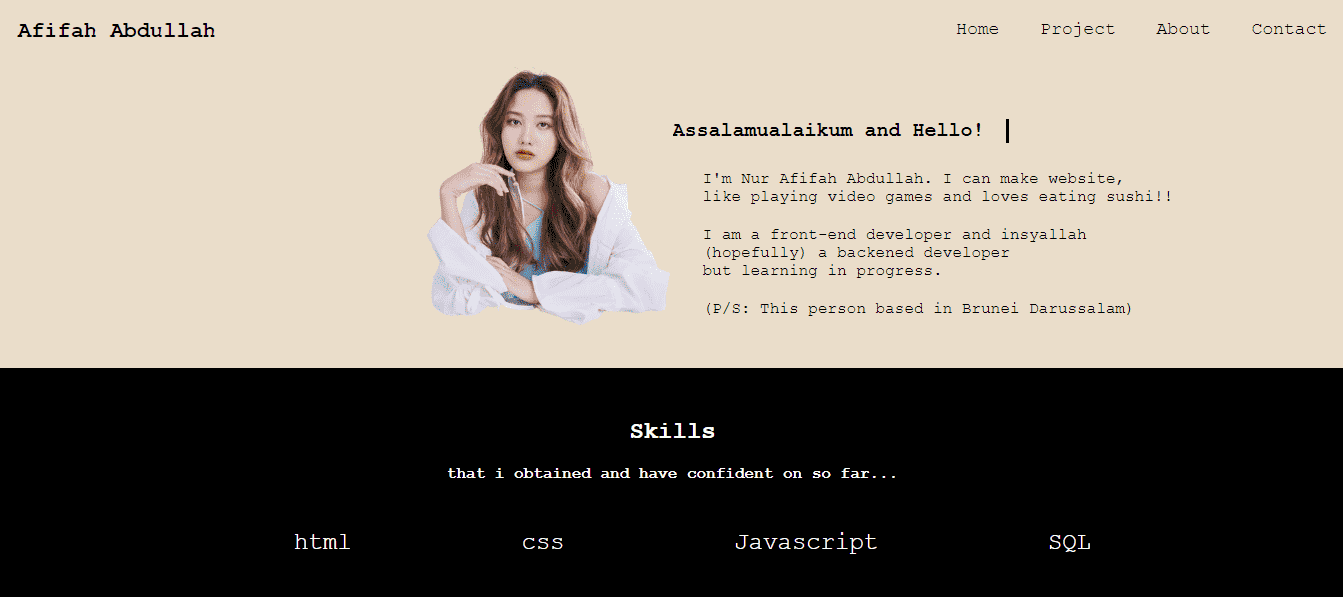
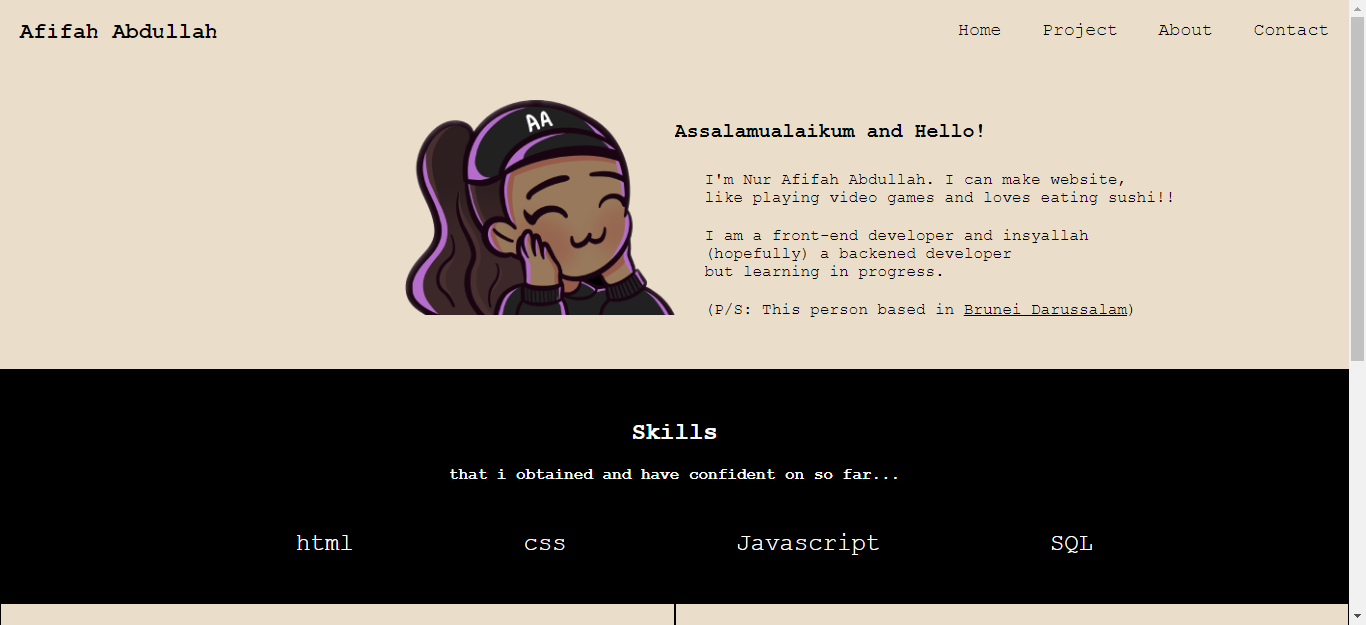
New Chnage
- Freen picture delete
- new Picture replace and adjusting responsively

diff --git a/home.css b/home.css
@@ -164,11 +164,12 @@ body {
     }
 }
 
-.freen {
+.afifah {
     display: block;
     width: auto;
-    max-width: 50%;
+    max-width: 40%;
     margin-left: auto;
+    margin-top: 50px;
 }
 
 .column {
@@ -226,7 +227,7 @@ section {
         width: 100%;
     }
 
-    .freen {
+    .afifah {
         margin-left: auto;
         margin-right: auto;
     }
@@ -265,7 +266,7 @@ section {
         padding-right: 30px;
     }
 
-    .freen {
+    .afifah {
         max-width: 50%;
     }
 }

diff --git a/home.html b/home.html
@@ -40,7 +40,7 @@
     <section>
         <div class="row">
             <div class="column">
-                <img src="img/Sarocha_Chankimha-1.png" class="freen">
+                <img src="/img/profilepic.png" class="afifah">
             </div>
 
             <div class="column">
